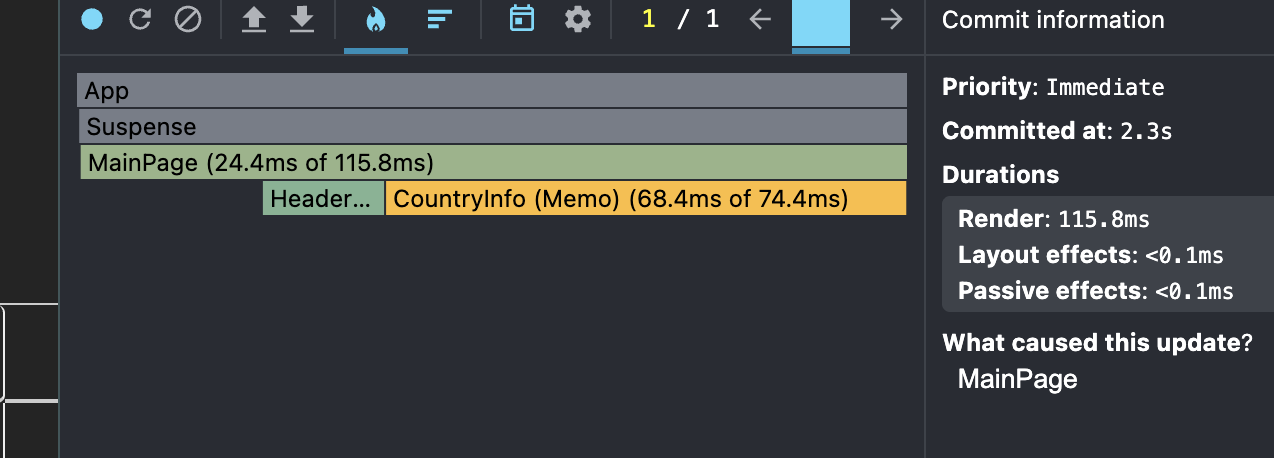
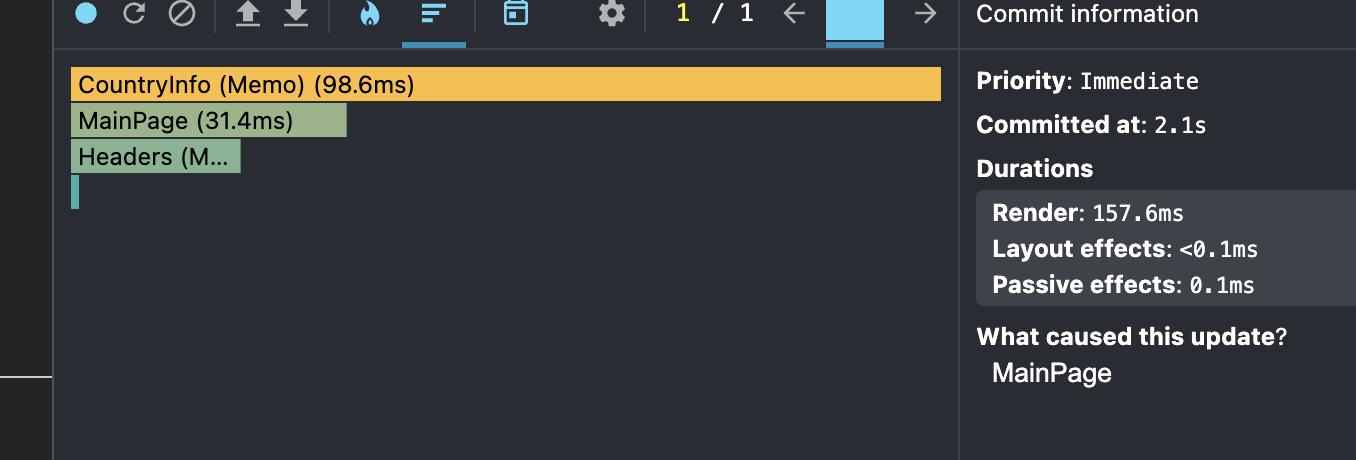
feat: update readme

Changed region(s): [[0.0, 0.0, 0.9796, 1.0], [0.7041, 0.7031, 0.9796, 0.8559]]

diff --git a/src/pages/main-page/main-page.tsx b/src/pages/main-page/main-page.tsx
@@ -25,6 +25,8 @@ export const MainPage = () => {
   const [sortKey, setSortKey] = useState<'name' | 'population'>('name');
   const [sortOrder, setSortOrder] = useState<'asc' | 'desc'>('asc');
 
+  console.time('countries');
+
   const countries = useMemo(
     () => filterByYear(data, selectedYear),
     [data, selectedYear]
@@ -70,6 +72,8 @@ export const MainPage = () => {
   const handleSearch = useCallback((term: string) => {
     setSearchTerm(term);
   }, []);
+
+  console.timeEnd('countries');
 
   return (
     <>

diff --git a/README.md b/README.md
@@ -14,20 +14,20 @@
 
 ### 🔎 Результаты профилинга
 
-- **Commit Duration:** ~0.9-1.1 s
-- **Render Duration:** до 112ms на отдельные компоненты
+- **Commit Duration:** ~0.9-2.4 s
+- **Render Duration:** до 62ms на отдельные компоненты
 - **Interactions:** поиск вызывал ререндер компонента Headers
 - **Flame Graph:** желтые зоны у `CountryInfo`
 - **Ranked Chart:** в топе по времени рендера был:
     - `CountryInfo`
 
 📸 Скриншоты из Profiler (до оптимизаций):  
-![Profiler FlameGraph Before](src/docs/screenshots/search.png)  
-![Profiler FlameGraph Before](src/docs/screenshots/select_year.png)  
-![Profiler FlameGraph Before](src/docs/screenshots/sort_by_name.png)  
-![Profiler FlameGraph Before](src/docs/screenshots/sort_by_population.png)  
-![Profiler FlameGraph Before](src/docs/screenshots/render_duration_for_component.png)  
-![Profiler Ranked Before](src/docs/screenshots/ranked_chart.png)
+![Profiler RankedChart Before](src/docs/screenshots/sort_by_name_before.png)  
+![Profiler RankedChart Before](src/docs/screenshots/sort_by_population_before.png)  
+![Profiler RankedChart Before](src/docs/screenshots/select_year_before.png)  
+![Profiler RankedChart Before](src/docs/screenshots/add_column_before.png)  
+![Profiler RankedChart Before](src/docs/screenshots/search_before_profiler.png)
+![Profiler RankedChart Before](src/docs/screenshots/flamegraph_search_before.png)
 
 ---
 
@@ -47,33 +47,46 @@
 
 ### 🔎 Результаты повторного профилинга
 
-- **Commit Duration:** увеличилось до ~131ms
+- **Commit Duration for Search interaction:** уменьшилось до 1.2 s
 - **Render Duration:** `Headers` больше не рендерится при поиске, поиск не должен влиять на заголовки колонок
 - **Interactions:** число компонентов, реагирующих на действия, уменьшилось
-- **Flame Graph:** в принципе желтые зоны у `CountryInfo` остались
 - **Ranked Chart:** `CountryInfo` так и остался в топе по времени рендера, как я понимаю
 
 📸 Скриншоты из Profiler (после оптимизаций):  
-![Profiler FlameGraph After](src/docs/screenshots/search_after.png)  
-![Profiler FlameGraph After](src/docs/screenshots/sort_by_name_after.png)  
-![Profiler FlameGraph After](src/docs/screenshots/sort_by_population_after.png)  
-![Profiler FlameGraph After](src/docs/screenshots/select_year_after.png)  
-![Profiler Ranked After](src/docs/screenshots/ranked_chart_after.png)
-![Profiler Ranked After](src/docs/screenshots/headers_after.png)
+![Profiler RankedChart After](src/docs/screenshots/search-after-profiler.png)  
+![Profiler RankedChart After](src/docs/screenshots/sort_by_name_after.png)  
+![Profiler RankedChart After](src/docs/screenshots/sort_by_population_after.png)  
+![Profiler RankedChart After](src/docs/screenshots/select_year_after.png)  
+![Profiler RankedChart After](src/docs/screenshots/add_column_after.png)  
+![Profiler RankedChart After](src/docs/screenshots/flamegraph_for_search_after.png)  
 
 ---
 
 ## 📊 Сравнение до и после оптимизаций
 
-| Параметр        | До оптимизации            | После оптимизации            |
-|-----------------|---------------------------|------------------------------|
-| Commit Duration | 0.9-1.1 s                 | 1.2s                         |
-| Render Duration | ~112ms                    | ~131ms                       |
-| Flame Graph     | Желтые зоны               | Желтые зоны                  |
-| Ranked Chart    | CountryInfo на 1 месте    | CountryInfo на 1 месте       |
-| Ranked Chart    | Headers перерендеривается | Headers не перерендеривается |
+| Параметр                                | До оптимизации            | После оптимизации             |
+|-----------------------------------------|---------------------------|-------------------------------|
+| Commit Duration for search interactions | 1.4 s                     | 1.2s                          |
+| Flame Graph                             | Желтые зоны               | Желтые зоны                   |
+| Ranked Chart                            | CountryInfo на 1 месте    | CountryInfo на 1 месте        |
+| Ranked Chart                            | Headers перерендеривается | Headers не перерендеривается  |
+| Ranked Chart                            | Ненужный ререндер         | Меньше компонентов рендерится |
 
 Применение `React.memo`, `useMemo` и `useCallback` позволило:
 
 - Уменьшить количество ненужных перерисовок.
+- Улучшился перформанс для поиска
+
+### 🔎 Важный момент
+
+Если смотреть по времени  рендера через console.time и console.timeEnd - видим, что время уменьшается в разы.
+Вот скрин до:
+
+![Console.time](src/docs/screenshots/consoletime-before.png)
+
+После:
+
+![Console.timeEnd](src/docs/screenshots/consoletime-after.png)
+
+Не смогла увидеть этого в профайлере, но здесь это четко видно) видимо все-таки оптимизация сработала.
 
